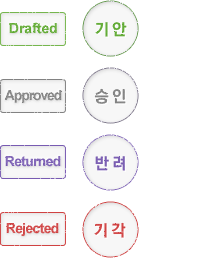
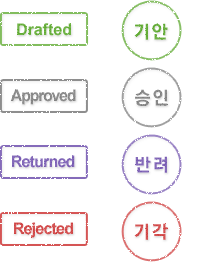
css,images

diff --git a/WebContent/css/black/detail.css b/WebContent/css/black/detail.css
@@ -345,9 +345,9 @@ a .icon_btn_edit:hover {background-position:-36px -859px}
 .approval_section .tit span, .forward_section .tit span { display:block; vertical-align:middle; text-align: center}
 
 .approval_group {margin: 0 5px; overflow:hidden}
-.approval_area { width:130px; height:147px; border:1px solid #cccccc; padding:4px; float:left; margin: 0 0 0 -1px}
+.approval_area { width:130px; height:134px; border:1px solid #cccccc; padding:4px; float:left; margin: 0 0 0 -1px}
 .approval_area .label { background-color:#ececec; padding: 1px; text-align: center; margin: -4px -4px 5px; height:15px}
-.approval_area .approval {height: 80px; overflow: hidden}
+.approval_area .approval {height: 72px; overflow: hidden}
 .approval_area .name {height:24px; vertical-align: bottom; display: table-cell}
 .approval_area .name .t_name {font-size:11px; height: 12px; overflow: hidden}
 .approval_area .name .up {height: 17px ! important; color:#555555}
@@ -355,15 +355,15 @@ a .icon_btn_edit:hover {background-position:-36px -859px}
 .approval_area .name .noti_pic img { width:24px; height:24px}
 .approval_area .name .noti_in {width: 101px; margin:0; float:left}
 .icon_approval {background: url("../../images/body_icon.png") no-repeat -529px -746px; width:75px; height:16px; margin:0 5px 0 0}
-.approval_area .t_date {margin:0 0 7px 0; height:18px}
+.approval_area .t_date {margin:0 0 7px 0; height:12px}
 /* Approval Status Image */
-.approval_status {background: url("../../images/status.png") no-repeat 0 0; width:67px; height:67px !important; margin: 12px 30px 6px}
-.approval_status img {width:67px; height:67px} 
+.approval_status {background: url("../../images/status.png") no-repeat 0 0; width:88px; height:61px !important; margin: 10px 20px 6px}
+.approval_status img {width:80px; height:67px} 
 .approval_status.drafted_en {background-position:0 0}
-.approval_status.drafted_ko {background-position:-77px 0}
-.approval_status.approved_en {background-position:0 -69px}
-.approval_status.approved_ko {background-position:-77px -69px}
-.approval_status.returned_en {background-position:0 -140px}
-.approval_status.returned_ko {background-position:-77px -140px}
-.approval_status.rejected_en {background-position:0 -209px}
-.approval_status.rejected_ko {background-position:-77px -209px}
+.approval_status.drafted_ko {background-position:-106px 0}
+.approval_status.approved_en {background-position:0 -67px}
+.approval_status.approved_ko {background-position:-106px -67px}
+.approval_status.returned_en {background-position:0 -134px}
+.approval_status.returned_ko {background-position:-106px -134px}
+.approval_status.rejected_en {background-position:0 -200px}
+.approval_status.rejected_ko {background-position:-106px -200px}

diff --git a/WebContent/css/black/form.css b/WebContent/css/black/form.css
@@ -1,10 +1,8 @@
 @charset "utf-8";
 /* CSS Document */
 .form_layout {padding:10px}
-.form_col {padding:0 10px; line-height: 22px}
-.form_col .qq-upload-button {width:60px !important; height:15px; line-height:17px}
-.form_col iframe {margin-bottom:4px}
-form .form_label, form .form_value {margin:4px 0 0 0}
+.form_layout .form_col {padding:0 10px !important; line-height: 22px}
+.form_layout .form_label, .form_layout .form_value {margin:4px 0 0 0 !important}
 .form_label, .form_value {float:left}
 .form_label {color:#23579e}
 .form_value input[type="text"] {width:100%}
@@ -14,9 +12,13 @@ form .form_label, form .form_value {margin:4px 0 0 0}
 .form_layout.con th, .boTb th {color: #23579E; vertical-align: top; font-weight: normal}
 .form_layout td, .form_layout th {border-bottom: 1px dotted #DCDFE0}
 
+/* File Upload */
+.form_col .qq-upload-button {width:60px !important; height:15px; line-height:17px}
+.form_col iframe {margin-bottom:4px}
+
 /* Up Load Box */
-#upload_form_box .form_label, #upload_form_box .form_value {margin:1px 0}
-#upload_form_box .form_col {padding:0 3px}
+.form_col {padding:0 3px}
+.form_label, .form_value {margin:1px 0}
 
 /* 상세필터 */
 .filter_section {overflow:hidden;}

diff --git a/WebContent/css/black/pop.css b/WebContent/css/black/pop.css
@@ -9,7 +9,7 @@
 .pop_title {font-weight:bold; font-size:14px; position:absolute; color:#454545;}
 
 /* Layer popup list */
-.pop_list_area {border: 1px solid #c7c7c7; text-align: left; background-color: #FFF; margin-top: 1px; font-size: 11px}
+.pop_list_area {border: 1px solid #c7c7c7; text-align: left; background-color: #FFF; margin-top: 1px; padding-top:5px; font-size: 12px; line-height:19px}
 .pop_list_area > ul,.pop_list_area form > ul {max-height:330px; overflow-y:auto}
 
 .pop_list_area li {display:block}
